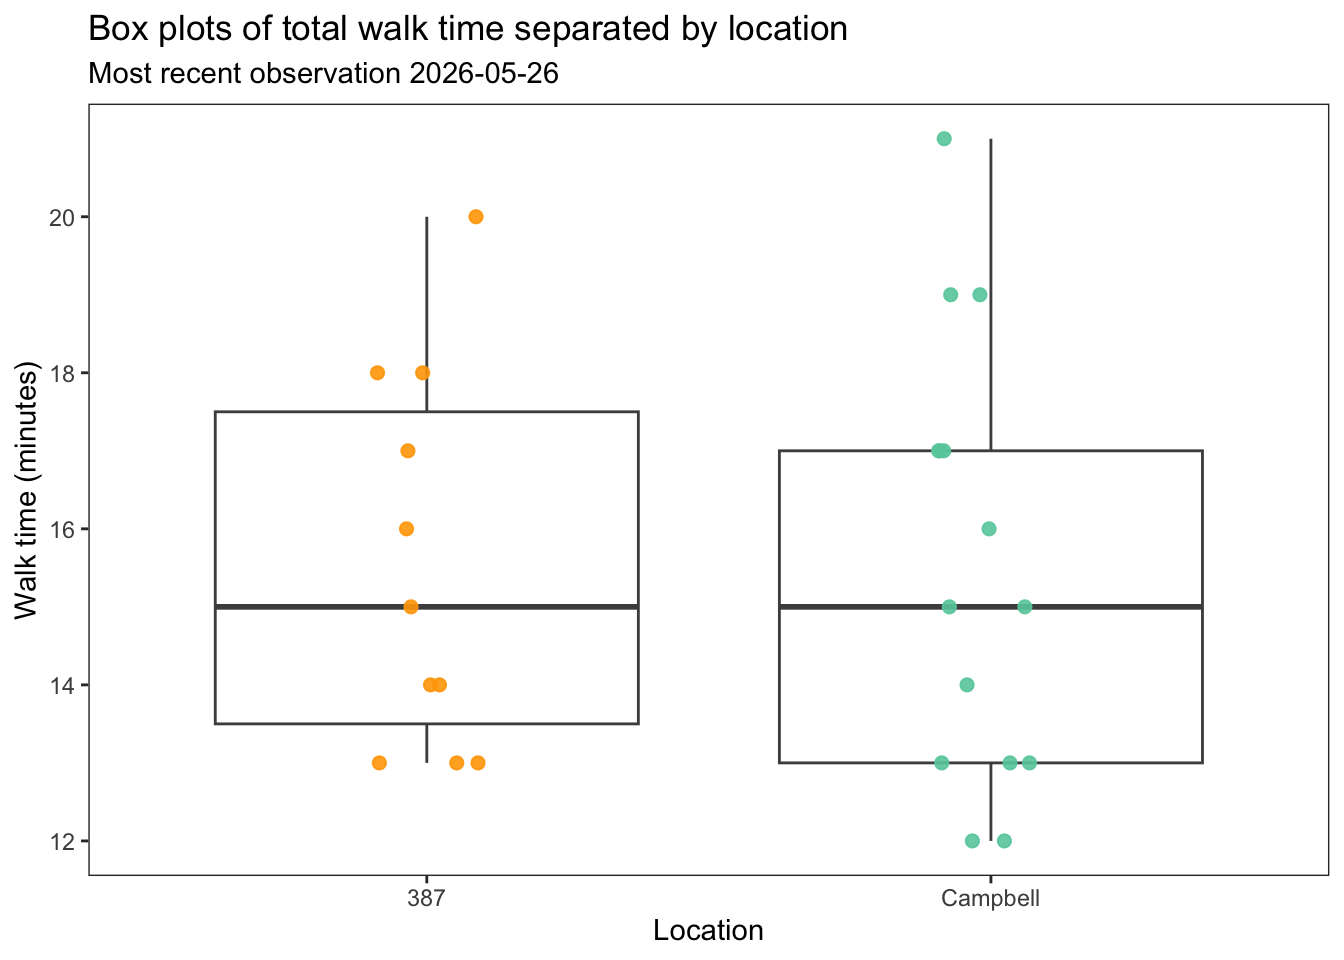
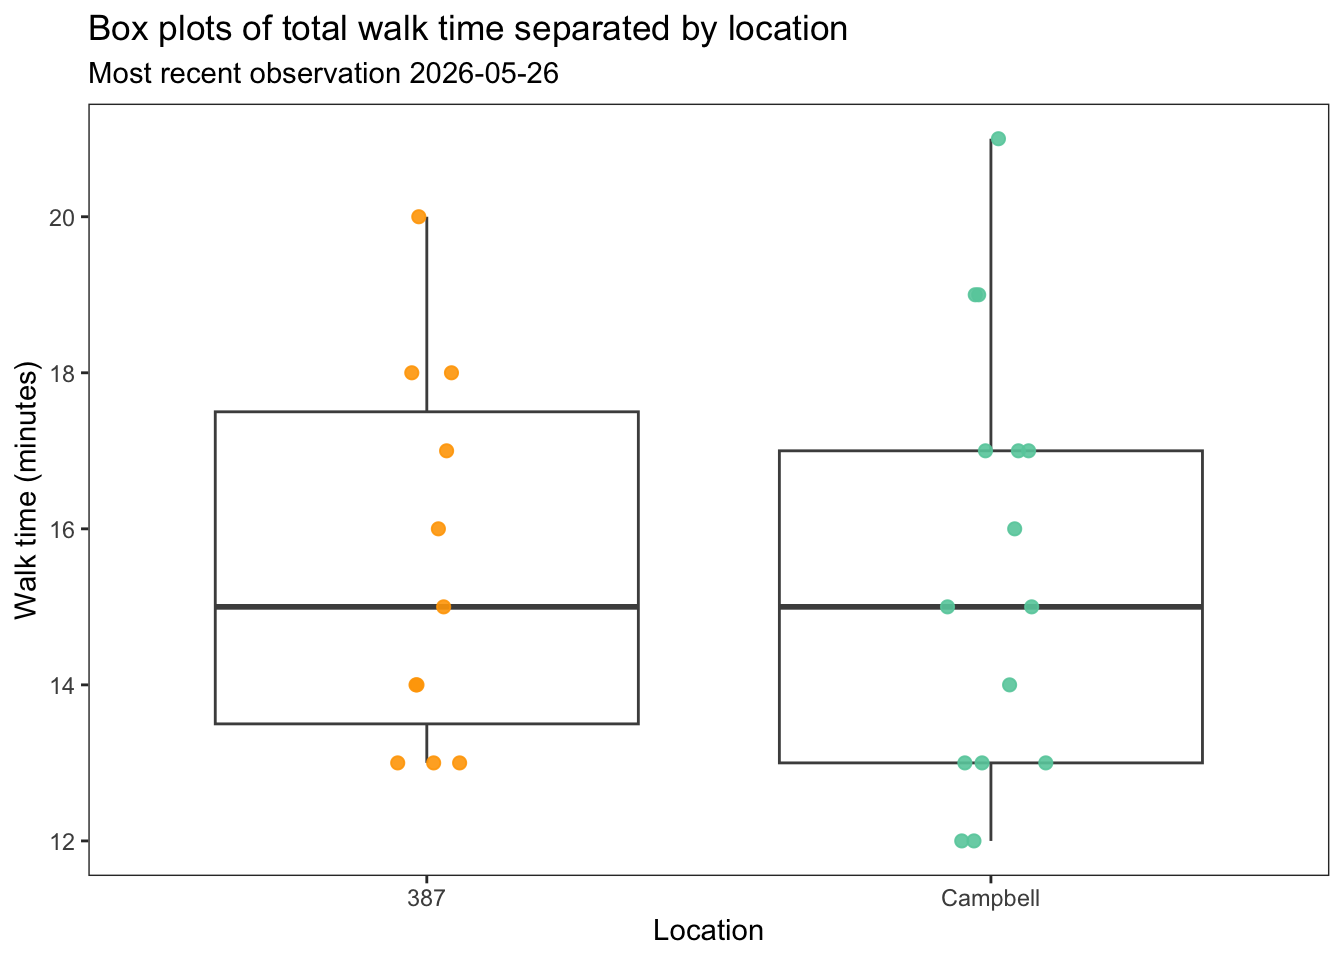
various formatting changes

diff --git a/docs/about.html b/docs/about.html
@@ -162,13 +162,7 @@ ul.task-list li input[type="checkbox"] {
 
 <section id="education-and-background" class="level2">
 <h2 class="anchored" data-anchor-id="education-and-background">Education and Background</h2>
-<div class="quarto-layout-panel" data-layout="[60,40]">
-<div class="quarto-layout-row quarto-layout-valign-top">
-<div class="quarto-layout-cell" style="flex-basis: 60.0%;justify-content: flex-start;">
 <p>I am currently an undergraduate at UCSB where I am pursuing two degrees. The first of which is a BS in Hydrologic Sciences and Policy and the second of which is a BA in English. I am hoping to complete my undergraduate time here at UCSB in the spring of 2028.</p>
-</div>
-</div>
-</div>
 <div class="quarto-layout-panel" data-layout="[40,60]">
 <div class="quarto-layout-row quarto-layout-valign-top">
 <div class="quarto-layout-cell" style="flex-basis: 40.0%;justify-content: flex-start;">

diff --git a/docs/projects.html b/docs/projects.html
@@ -214,7 +214,7 @@ window.Quarto = {
 
 <div class="quarto-listing quarto-listing-container-grid" id="listing-listing">
 <div class="list grid quarto-listing-cols-3">
-<div class="g-col-1" data-index="0" data-listing-date-sort="1780383600000" data-listing-file-modified-sort="1780448622271" data-listing-date-modified-sort="NaN" data-listing-reading-time-sort="6" data-listing-word-count-sort="1149">
+<div class="g-col-1" data-index="0" data-listing-date-sort="1780383600000" data-listing-file-modified-sort="1780448774906" data-listing-date-modified-sort="NaN" data-listing-reading-time-sort="6" data-listing-word-count-sort="1160">
 <a href="./posts/2026-06-02-Personal-Data/index.html" class="quarto-grid-link">
 <div class="quarto-grid-item card h-100 card-left">
 <p class="card-img-top">
